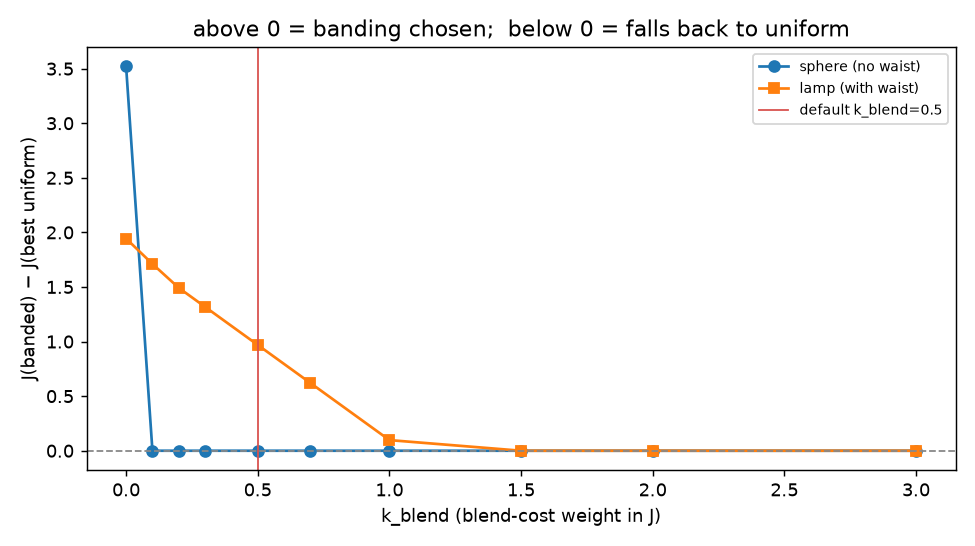
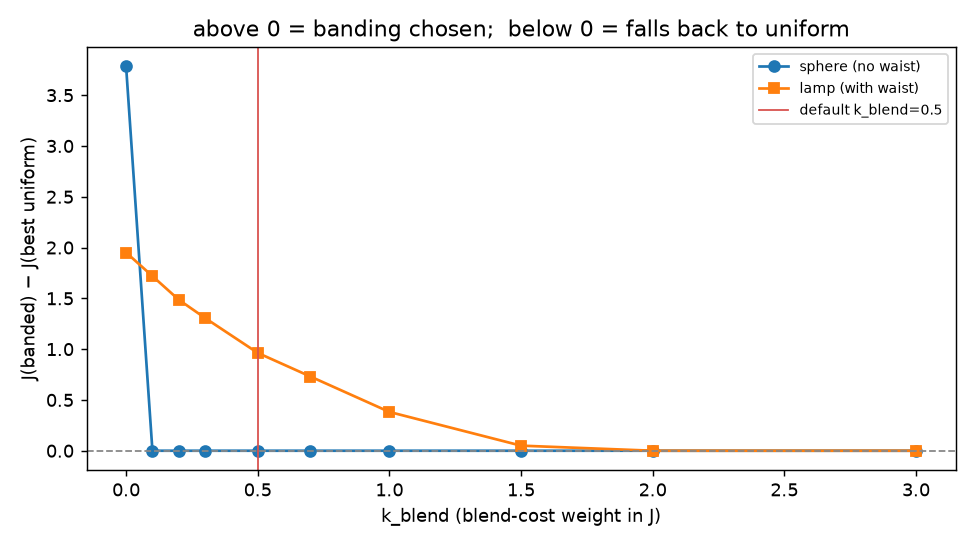
복잡도 곡선을 밴드 수 N=1~4로 재작성 + 그 과정에서 계획기 결함 3건 수정
무엇을: compare_bands.py 신규 — 프로필 J로 각도를 고르고 실제 파이프라인을 돌려
페리미터 미지지%와 평균 왜곡각으로 N=1~4를 비교한다. 자체 점검은 'J가 N에 대해
비감소인가' (N개는 이웃을 같은 각도로 두면 N-1개를 흉내낼 수 있으므로).

왜 결함이 드러났나: 처음 돌렸을 때 램프에서 N=2(3.30) > N=3(2.93) > N=4(2.33)로
감소했다. 그 위반을 따라가 셋을 찾았다.

① 탐색 이웃이 단일 좌표 — 블렌드 비용은 '이웃 밴드의 각도가 다른 자리'에 붙으므로
   한 칸씩으로는 두 밴드를 함께 내리는 수를 못 둔다. 연속한 밴드 덩어리로 교체
   (크기 1 블록을 포함하는 상위집합, 전체 블록이 곧 균일해).
② 경계 이동 예산이 밴드 높이 기준(h/N) — N이 커질수록 허리에 못 닿았다.
   '허리까지의 거리'는 몇 개로 나눴는지와 무관한 모델의 성질이라 모델 높이 기준으로.
③ _required_width 가 필요 폭을 가용 폭으로 잘라 반환 — 자리가 없는 중심이 '폭이
   작아 싸다'로 평가되고, w==avail 이라 각도 삭감 검사도 안 걸렸다. 폭 0.14mm에
   42°→0°, 층간격 배율 53.7배짜리 프로필이 J=5.72로 1등이었다(툴패스 5.74%로 최악).

추가로 경계 배치 비용을 J와 정렬: w + |이동거리| → w·r_b (블렌드 겉넓이 proxy).
J가 무는 것은 블렌드 구간의 표면적인데 폭만 보면 '같은 폭이라도 뚱뚱한 높이에서
표면적이 훨씬 크다'를 놓친다. 이동거리 항은 J에 대응물이 없어 동점 처리로.
그리고 안전망: 층간격 제약을 어긴 프로필은 J와 무관하게 탈락시킨다.

결과(페리미터/평균왜곡각): 구는 N=1~4 내내 1.08%/28°로 균일 유지, 램프는
3.01%/24.0° → 1.78%/16.3° → 1.78%/16.3° → 1.57%/14.8°. J 비감소 확인.

Claude-Session: https://claude.ai/code/session_01PhcSjij4HCWYMgSyMokAq5

diff --git a/compare_bands.py b/compare_bands.py
@@ -1,0 +1,134 @@
+"""
+compare_bands.py — 복잡도(밴드 수) vs 성능 곡선, 툴패스 실측판.
+
+기존 compare_complexity.py 는 '이상적 추정'(각 밴드를 상수각으로 독립 평가)으로
+곡선을 그렸다. 그 추정은 각도를 바꾸는 값(블렌드)을 모른다. 여기서는
+
+  · 밴드 각도를 프로필 단위 J 로 고르고 (블렌드 비용 포함, select_banded_j)
+  · 실제로 파이프라인을 돌려 G-code 를 만들고
+  · 툴패스 검사기의 **페리미터 미지지 %** 로 잰다
+
+두 축을 같이 본다 — 서포트만 보면 항상 큰 각도가 이기기 때문에, 면적가중
+평균 왜곡각 ⟨|θ|⟩ 를 나란히 기록한다.
+
+    python3 compare_bands.py [model.stl]
+
+⚠ 시뮬레이션 경향이며 실물 출력 검증 전 — '증명'이 아니다.
+"""
+
+import sys
+import time
+
+import numpy as np
+import trimesh
+import matplotlib
+matplotlib.use("Agg")
+import matplotlib.pyplot as plt
+
+from conical.config import (MAX_SPACING_FACTOR, BLEND_SHIFT_RATIO, DEFAULT_K)
+from conical.meshio import center_on_axis, RadiusProfile
+from conical.varangle import select_banded_j
+from compare_waist import waisted_model, run_pipeline, mean_abs_angle
+
+N_BANDS = [1, 2, 3, 4]
+
+
+def sweep(mesh, k=DEFAULT_K):
+    rp = RadiusProfile(mesh)
+    r_max = float(np.hypot(mesh.vertices[:, 0], mesh.vertices[:, 1]).max())
+    h = mesh.bounds[1][2] - mesh.bounds[0][2]
+    rows = []
+    for n in N_BANDS:
+        t0 = time.time()
+        r = select_banded_j(mesh, k, n, r_max, rp, MAX_SPACING_FACTOR,
+)
+        t_sel = time.time() - t0
+        prof = r["profile_obj"]
+        peri, total, fill = run_pipeline(mesh, prof)
+        blends = prof.blend_intervals()
+        rows.append({
+            "n": n, "thetas": r["thetas"], "J": r["J"],
+            "uniform_J": r["uniform_J"], "blend_penalty": r["blend_penalty"],
+            "n_blends": len(blends),
+            "blend_mm": sum(b - a for a, b in blends),
+            "peri": peri, "total": total,
+            "angle": mean_abs_angle(mesh, prof), "t_sel": t_sel,
+        })
+    return rows
+
+
+def main():
+    if len(sys.argv) > 1:
+        models = [(sys.argv[1],
+                   center_on_axis(trimesh.load(sys.argv[1], force="mesh")))]
+    else:
+        models = [
+            ("구 (허리 없음)",
+             center_on_axis(trimesh.creation.icosphere(subdivisions=3, radius=10.0))),
+            ("램프 (허리 있음)", waisted_model()),
+        ]
+
+    results = {}
+    for name, mesh in models:
+        rows = sweep(mesh)
+        results[name] = rows
+        print("=" * 84)
+        print(f"[{name}]  면 {len(mesh.faces):,}  높이 {mesh.bounds[1][2]:.1f}mm")
+        print(f"  {'N':>2} | {'선택 각도':<22} | {'페리미터':>8} | {'⟨|θ|⟩':>6} | "
+              f"{'J':>6} | {'블렌드':>10} | {'선택':>5}")
+        for r in rows:
+            th = ",".join(f"{t:.0f}" for t in r["thetas"])
+            bl = f"{r['n_blends']}개 {r['blend_mm']:.1f}mm" if r["n_blends"] else "없음"
+            print(f"  {r['n']:>2} | [{th:<20}] | {r['peri']:7.2f}% | "
+                  f"{r['angle']:5.1f}° | {r['J']:6.2f} | {bl:>10} | {r['t_sel']:4.0f}s")
+        best = min(rows, key=lambda r: r["peri"])
+        jbest = max(rows, key=lambda r: r["J"])
+        print(f"  → 페리미터 최소 N={best['n']} ({best['peri']:.2f}%), "
+              f"J 최대 N={jbest['n']} (J={jbest['J']:.2f})")
+        # 단조성 점검: N개 밴드는 이웃 밴드를 같은 각도로 두면 N-1개를 흉내낼 수 있으므로
+        # J 는 N 에 대해 비감소여야 한다. 다만 밴드 경계(linspace)가 N 마다 달라서
+        # 전이 위치가 미세하게 달라지므로, 0.01 미만 차이는 그 잡음으로 본다.
+        drops = [(rows[i - 1]["n"], rows[i]["n"],
+                  rows[i - 1]["J"] - rows[i]["J"])
+                 for i in range(1, len(rows))
+                 if rows[i]["J"] < rows[i - 1]["J"] - 0.01]
+        if drops:
+            print("  ⚠ J가 N에 대해 단조증가하지 않는다 — 밴드를 늘렸는데 손해인 구간:")
+            for a, b, d in drops:
+                print(f"      N={a} → N={b}: J가 {d:.2f} 감소")
+        else:
+            gaps = [rows[i]["J"] - rows[i - 1]["J"] for i in range(1, len(rows))]
+            print(f"  ✓ J가 N에 대해 비감소 (증분 "
+                  f"{', '.join(f'{g:+.3f}' for g in gaps)})")
+
+    fig, axes = plt.subplots(1, len(results), figsize=(6.4 * len(results), 4.4),
+                             squeeze=False)
+    for ax, (name, rows) in zip(axes[0], results.items()):
+        ns = [r["n"] for r in rows]
+        ax.plot(ns, [r["peri"] for r in rows], "o-", color="#2e7d32",
+                label="unsupported perimeter (%)")
+        for r in rows:
+            ax.annotate(f"⟨|θ|⟩={r['angle']:.0f}°", (r["n"], r["peri"]),
+                        textcoords="offset points", xytext=(0, 9),
+                        ha="center", fontsize=7)
+        ax2 = ax.twinx()
+        ax2.plot(ns, [r["J"] for r in rows], "s--", color="#4a7ebb", alpha=.75,
+                 label="J (objective)")
+        ax2.set_ylabel("J", color="#4a7ebb")
+        ax.set_xlabel("number of bands N")
+        ax.set_ylabel("unsupported perimeter (%)", color="#2e7d32")
+        ax.set_xticks(ns)
+        ax.set_title("sphere (no waist)" if "구" in name else "lamp (with waist)",
+                     fontsize=10)
+        ax.margins(y=.22)
+    fig.suptitle("complexity (bands) vs performance — measured on the toolpath, "
+                 "not the ideal estimate", fontsize=11)
+    fig.tight_layout()
+    fig.savefig("compare_bands.png", dpi=130)
+    print("\n그림 저장: compare_bands.png")
+    print("⚠ 시뮬레이션 경향이며 실물 출력 검증 전 — '증명'이 아니다.")
+    return 0
+
+
+if __name__ == "__main__":
+    raise SystemExit(main())

diff --git a/conical/profile.py b/conical/profile.py
@@ -92,26 +92,28 @@ def max_dtan_for_width(r_blend, w, sign, direction="outward",
 
 
 def _required_width(zc, dtan, r_global, radius_profile, safety, min_blend,
-                    spacing_limit, max_w=None):
-    """중심 zc 에 놓을 블렌드의 필요 폭과 그때의 블렌드 반경 r_b.
+                    spacing_limit):
+    """중심 zc 에 놓을 블렌드의 '진짜 필요 폭'과 그때의 블렌드 반경 r_b.
 
     r_b 는 블렌드가 덮는 높이 구간의 최대 반경인데, 그 구간이 '폭에 따라' 달라진다
     (넓힐수록 더 뚱뚱한 높이까지 덮을 수 있다). 그래서 (폭 → 구간 → 반경 → 폭)을
-    수렴할 때까지 반복한다. w 는 단조증가하므로 반경 상한(전 모델 r_max)에서 멈춘다.
+    수렴할 때까지 반복한다. w 는 단조증가하고 반경이 r_global 에서 포화하므로 수렴한다.
     ⚠ 2회만 돌리면 구처럼 위로 갈수록 뚱뚱해지는 모델에서 과소평가된다(실측으로 발견).
+
+    ⚠ 자리(가용 폭)로 잘라서 반환하면 안 된다(실측으로 발견): 자리가 거의 없는 중심이
+      '폭이 작아서 싸다'고 잘못 평가되고, 게다가 w == avail 이 되어 호출부의
+      '자리 부족 → 각도 삭감' 검사가 안 걸린다. 램프 N=4 에서 0.14mm 폭에 42°→0° 가
+      들어가 층간격 배율 53.7배짜리 프로필이 나왔다. 자를지 말지는 호출부가 정한다.
     """
     w_inv = r_global * dtan                        # c=+1 규약, 불안정 방향만 >0
     w = max(min_blend, safety * w_inv if w_inv > 0 else min_blend)
     r_b = r_global
     if spacing_limit is None:
         return w, r_b
-    cap = max_w if max_w is not None else float("inf")
     for _ in range(40):
         r_b = (radius_profile.max_between(zc - w / 2.0, zc + w / 2.0)
                if radius_profile is not None else r_global)
         w_new = max(w, blend_width_for_spacing(r_b, dtan, "outward", spacing_limit))
-        if w_new > cap:
-            return cap, r_b
         if w_new <= w * (1 + 1e-4):
             return w_new, r_b
         w = w_new
@@ -136,31 +138,41 @@ def _plan_blend(zb, th1, th2, room_lo, room_hi, r_global, radius_profile,
     # ① 후보 중심들 (원위치 우선, max_shift 안에서 반경이 작은 높이 탐색)
     centers = [zb]
     if max_shift > 0 and radius_profile is not None:
-        centers += list(np.linspace(zb - max_shift, zb + max_shift, 21))
+        # 이동 범위가 넓어져도 해상도(~0.5mm)를 유지한다 — 고정 21점이면 넓은 범위에서
+        # 표본 간격이 벌어져 좁은 '허리'를 통째로 건너뛴다.
+        n_c = int(np.clip(round(2 * max_shift / 0.5) + 1, 21, 81))
+        centers += list(np.linspace(zb - max_shift, zb + max_shift, n_c))
     cands = []
     for zc in centers:
         if available(zc) <= 0:
             continue
         w, r_b = _required_width(zc, dtan, r_global, radius_profile,
-                                 safety, min_blend, spacing_limit, available(zc))
+                                 safety, min_blend, spacing_limit)
         cands.append((zc, w, r_b, available(zc)))
     if not cands:                                   # 자리가 아예 없음 → 원위치 강행
         w, r_b = _required_width(zb, dtan, r_global, radius_profile,
                                  safety, min_blend, spacing_limit)
         cands = [(zb, w, r_b, max(available(zb), min_blend))]
 
-    # ② 후보 선택: 비용 = (블렌드가 잡아먹는 높이 w) + (경계를 옮긴 거리).
-    #    둘 다 mm 라 그냥 더할 수 있다 — 튜닝 상수 없음. '허리'가 있으면 그쪽으로
-    #    옮기는 게 이득이고(폭이 확 줄어듦), 없으면 제자리를 지킨다.
+    # ② 후보 선택: 비용 = 블렌드의 겉넓이 proxy  w · r_b.
+    #    평가함수 J 가 물리는 블렌드 비용은 '블렌드 구간의 표면적 × risk' 인데,
+    #    회전체에서 높이 w·반경 r_b 구간의 옆넓이가 ∝ r_b·w 다. 즉 계획기가
+    #    최소화하는 양을 J 가 재는 양과 맞춘 것이다.
+    #    ⚠ 예전에는 (w + |경계 이동거리|) 였다(실측으로 교체): 폭만 보면 '같은 폭이라도
+    #      뚱뚱한 높이에서는 표면적이 훨씬 크다'를 놓치고, 이동거리 항은 J 에 대응물이
+    #      아예 없는 임의 항이었다. 그 탓에 램프 N=3 에서 계획기가 목(허리) 대신
+    #      제자리를 지켜 J 가 N 에 대해 단조가 아니었다.
+    #    이동거리는 동점 처리에만 쓴다 — 이득이 같으면 안 옮긴다.
     ok = [c for c in cands if c[1] <= c[3] + 1e-9]
     pool = ok if ok else cands
-    zc, w, r_b, avail = min(pool, key=lambda c: (c[1] + abs(c[0] - zb),
-                                                 abs(c[0] - zb)))
+    best_area = min(c[1] * max(c[2], 1e-9) for c in pool)
+    near = [c for c in pool if c[1] * max(c[2], 1e-9) <= best_area * 1.01 + 1e-12]
+    zc, w, r_b, avail = min(near, key=lambda c: abs(c[0] - zb))
 
     note = None
     if abs(zc - zb) > 1e-6:
-        note = (f"경계 {zb:.2f} → {zc:.2f} mm 로 이동 (그 높이 반경 {r_b:.1f}mm 가 "
-                f"작아 블렌드 폭이 줄어듦)")
+        note = (f"경계 {zb:.2f} → {zc:.2f} mm 로 이동 "
+                f"(그 높이 반경 {r_b:.1f}mm, 블렌드 폭 {w:.2f}mm)")
 
     # ③ 폭이 모자라면 각도 차를 깎는다 (깨진 프로필 대신 출력 가능한 최선)
     th2_used = th2

diff --git a/conical/varangle.py b/conical/varangle.py
@@ -20,7 +20,7 @@ varangle.py — 높이 구간별 '변수각 원뿔' 전략 (부위별 각도의 
 import numpy as np
 
 from .config import (THRESHOLD_DEG, MAX_ANGLE_DEG, ANGLE_STEP,
-                     BLEND_COST_K, MAX_SPACING_FACTOR)
+                     BLEND_COST_K, MAX_SPACING_FACTOR, BLEND_SHIFT_RATIO)
 # 판정 기준 통일(2026-07 리뷰): metrics(변환공간 근사) → analytic(해석식).
 # α=0 에서 두 정의는 일치, α>0 에서 해석식이 물리 기준이다.
 from .analytic import face_support_and_staircase, support_fraction, \
@@ -187,7 +187,7 @@ def _merge_bands(edges, thetas):
 
 
 def select_banded_j(mesh, k, n_bands, r_max, radius_profile=None,
-                    spacing_limit=MAX_SPACING_FACTOR, max_shift=0.0,
+                    spacing_limit=MAX_SPACING_FACTOR, max_shift=None,
                     k_blend=BLEND_COST_K, max_angle=MAX_ANGLE_DEG,
                     step=ANGLE_STEP, threshold_deg=THRESHOLD_DEG,
                     max_sweeps=4):
@@ -212,6 +212,8 @@ def select_banded_j(mesh, k, n_bands, r_max, radius_profile=None,
     labels, edges = assign_height_bands(mesh, n_bands)
     areas = mesh.area_faces
     base_pct = support_fraction(mesh, 0.0, "outward", threshold_deg)
+    if max_shift is None:      # 모델 높이 기준 (밴드 수와 무관 — config 주석 참조)
+        max_shift = BLEND_SHIFT_RATIO * float(mesh.bounds[1][2] - mesh.bounds[0][2])
 
     # 후보 각도(부호 있음: 음수=inward). 0 은 한 번만.
     cands = sorted({float(sgn * a)
@@ -228,27 +230,45 @@ def select_banded_j(mesh, k, n_bands, r_max, radius_profile=None,
             prof = build(thetas)
         except ValueError:
             return None, {"J": -1e9}
+        # 안전망: 층간격 제약을 어긴 프로필은 J 가 아무리 좋아도 채택하지 않는다.
+        #   계획기가 자리를 못 찾으면 각도를 깎아 넣게 돼 있지만, 그 경로에 버그가
+        #   있으면 '예측은 최고인데 실제로는 못 찍는' 프로필이 뽑힌다 —
+        #   실제로 그랬다(램프 N=4, 폭 0.14mm 에 42°→0°, 배율 53.7배, J=5.72인데
+        #   툴패스 미지지 5.74%). 평가 단계에서 한 번 더 막는다.
+        if spacing_limit is not None and \
+                prof.check_spacing(r_max, "outward", spacing_limit, radius_profile):
+            return None, {"J": -1e9}
         return prof, profile_objective(mesh, prof, base_pct, k, k_blend,
                                        radius_profile, spacing_limit,
                                        threshold_deg)
+
+    # 이웃(neighborhood)은 '연속한 밴드 덩어리'다 — 한 밴드씩이 아니라.
+    #   블렌드 비용은 '이웃한 밴드의 각도가 다른 자리'에 붙으므로, 한 칸씩 바꾸는
+    #   이웃으로는 밴드 두 개를 함께 내리는 수를 못 둔다(중간 상태가 비용을 다 문다).
+    #   실측: N=4 램프에서 [24,24,24,24] → [24,24,0,0] 이 단일 좌표로는 도달 불가라
+    #   J가 N에 대해 단조가 아니었다(N=2: 3.30 > N=4: 2.33).
+    #   덩어리 이동은 크기 1 블록을 포함하므로 기존 좌표하강의 상위집합이고,
+    #   전체 범위 블록이 곧 균일해라 '균일보다 나쁠 수 없다'가 구조적으로 보장된다.
+    blocks = [(i, j) for i in range(n_bands) for j in range(i, n_bands)]
 
     def descend(thetas):
         thetas = list(thetas)
         prof, met = score(thetas)
         for _ in range(max_sweeps):
             changed = False
-            for i in range(n_bands):
-                best_t, best_m, best_p = thetas[i], met, prof
+            for i, j in blocks:
+                best_tr, best_m, best_p = None, met, prof
                 for t in cands:
-                    if t == thetas[i]:
+                    if all(thetas[b] == t for b in range(i, j + 1)):
                         continue
                     trial = list(thetas)
-                    trial[i] = t
+                    for b in range(i, j + 1):
+                        trial[b] = t
                     p, m = score(trial)
                     if m["J"] > best_m["J"] + 1e-9:
-                        best_t, best_m, best_p = t, m, p
-                if best_t != thetas[i]:
-                    thetas[i] = best_t
+                        best_tr, best_m, best_p = trial, m, p
+                if best_tr is not None:
+                    thetas = best_tr
                     met, prof = best_m, best_p
                     changed = True
             if not changed:

diff --git a/conical/config.py b/conical/config.py
@@ -42,9 +42,14 @@ MAX_SPACING_FACTOR = 1.5
 #     analyze_blend_k.py 의 '판단이 뒤집히는 k_blend 창' 분석 참조.
 BLEND_COST_K = 0.5
 
-# 밴드 경계를 반경이 작은 높이로 옮겨볼 수 있는 최대 거리 = (밴드 높이) × 이 비율.
+# 밴드 경계를 반경이 작은 높이로 옮겨볼 수 있는 최대 거리 = (모델 높이) × 이 비율.
 #   블렌드 폭은 그 높이의 반경에 비례하므로, '허리'가 있는 모델은 경계를 조금만
 #   옮겨도 필요한 블렌드가 크게 줄어든다. 0 = 경계 고정(옮기지 않음).
+#   ⚠ '밴드 높이' 기준이었다가 '모델 높이' 기준으로 바꿨다(실측): 밴드 높이 기준이면
+#     N이 커질수록 예산이 줄어(h/N) 밴드를 더 잘게 나눌수록 허리에 못 닿는다.
+#     그래서 J가 N에 대해 단조가 아니었다(램프 N=2: 3.30 > N=4: 2.82).
+#     '가장 가까운 허리까지의 거리'는 몇 개로 나눴는지와 무관한 모델의 성질이다.
+#     크게 잡아도 안전하다 — 이동 비용(폭+거리)이 알아서 제자리를 지킨다.
 BLEND_SHIFT_RATIO = 0.25
 
 # 평가함수 J = (서포트 감소) − k×각도 의 기본 각도 비용 가중치.

diff --git a/conical_slice.py b/conical_slice.py
@@ -133,8 +133,8 @@ def main():
                 profile = AngleProfile(list(zip(profile.zs, -profile.thetas_deg)))
             why = "수동 프로필"
         else:
-            band_h = (mesh.bounds[1][2] - mesh.bounds[0][2]) / args.auto_bands
-            shift = BLEND_SHIFT_RATIO * band_h
+            # 이동 예산은 모델 높이 기준 — 밴드 수와 무관 (config 주석 참조)
+            shift = BLEND_SHIFT_RATIO * (mesh.bounds[1][2] - mesh.bounds[0][2])
             if args.band_select == "j":
                 banded_info = select_banded_j(
                     mesh, args.k, args.auto_bands, r_max, rprof,

diff --git a/compare_waist.py b/compare_waist.py
@@ -102,9 +102,8 @@ def strategies(mesh, k=DEFAULT_K):
     old = AngleProfile.from_banded_result(banded, r_max)            # 층간격 제약 없음
     new = AngleProfile.from_banded_result(
         banded, r_max, radius_profile=rp, spacing_limit=MAX_SPACING_FACTOR,
-        max_shift=BLEND_SHIFT_RATIO * h / 2)
-    jr = select_banded_j(mesh, k, 2, r_max, rp, MAX_SPACING_FACTOR,
-                         BLEND_SHIFT_RATIO * h / 2)
+        max_shift=BLEND_SHIFT_RATIO * h)
+    jr = select_banded_j(mesh, k, 2, r_max, rp, MAX_SPACING_FACTOR)
 
     def blend_note(p):
         iv = p.blend_intervals()

diff --git a/analyze_blend_k.py b/analyze_blend_k.py
@@ -42,7 +42,7 @@ def analyze(mesh, k=DEFAULT_K, n_bands=2):
     out = []
     for kb in K_BLENDS:
         r = select_banded_j(mesh, k, n_bands, r_max, rp, MAX_SPACING_FACTOR,
-                            BLEND_SHIFT_RATIO * h / n_bands, k_blend=kb)
+                            k_blend=kb)
         uniform = len(set(r["thetas"])) == 1
         out.append({"k_blend": kb, "thetas": r["thetas"], "uniform": uniform,
                     "J": r["J"], "gain": r["J"] - r["uniform_J"],
